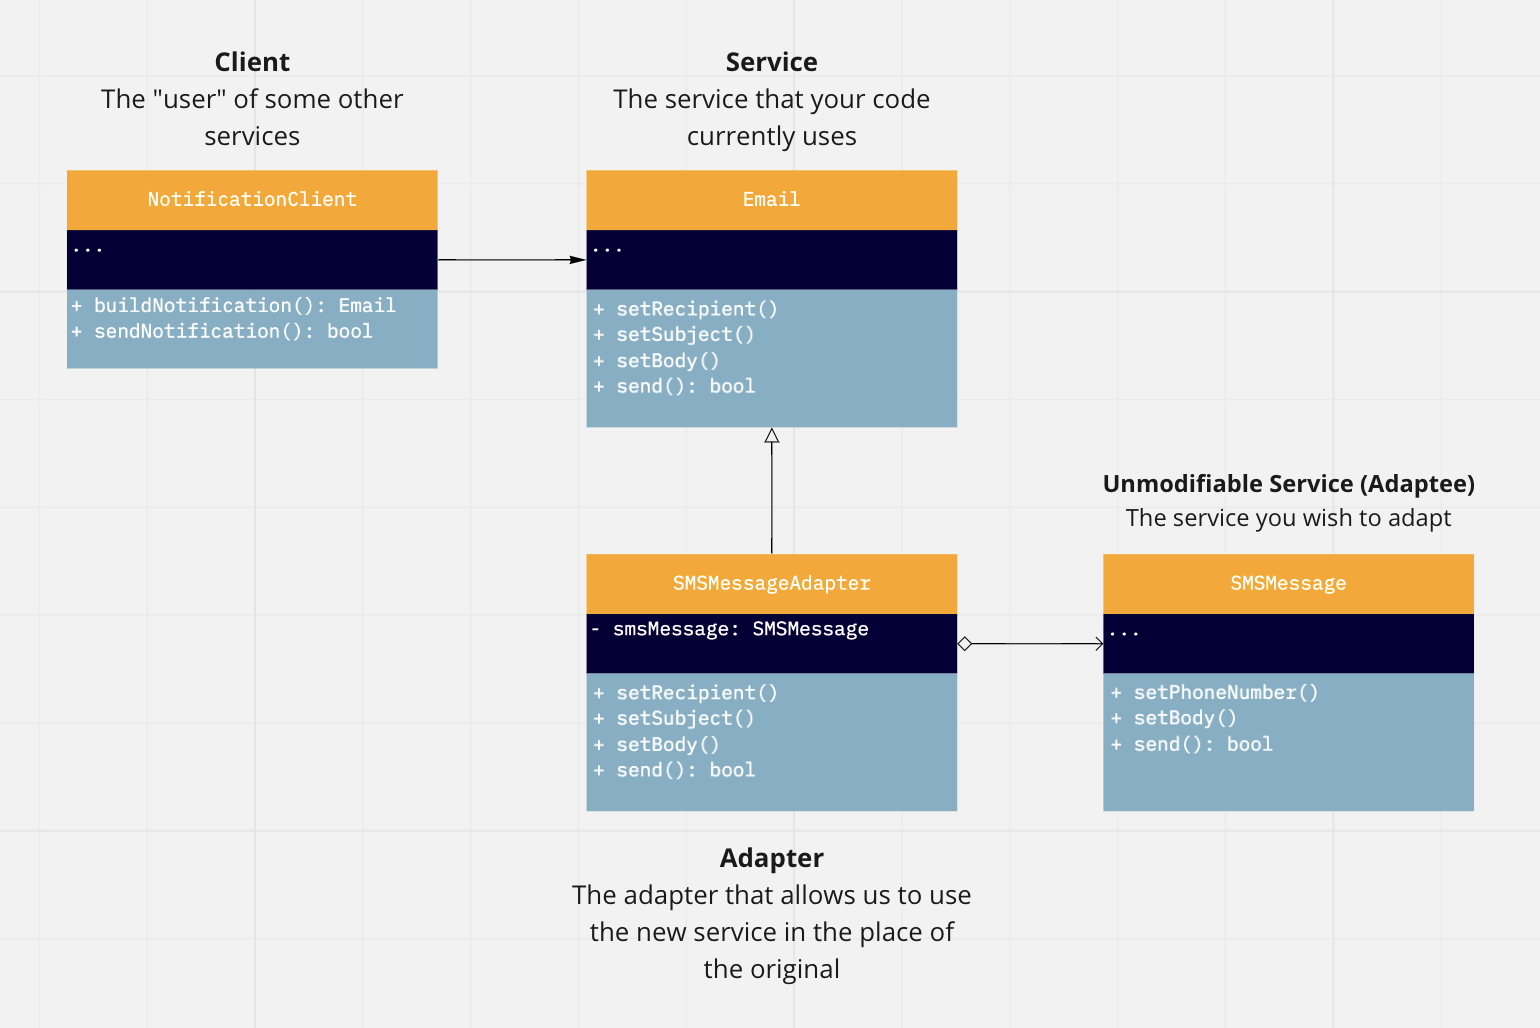
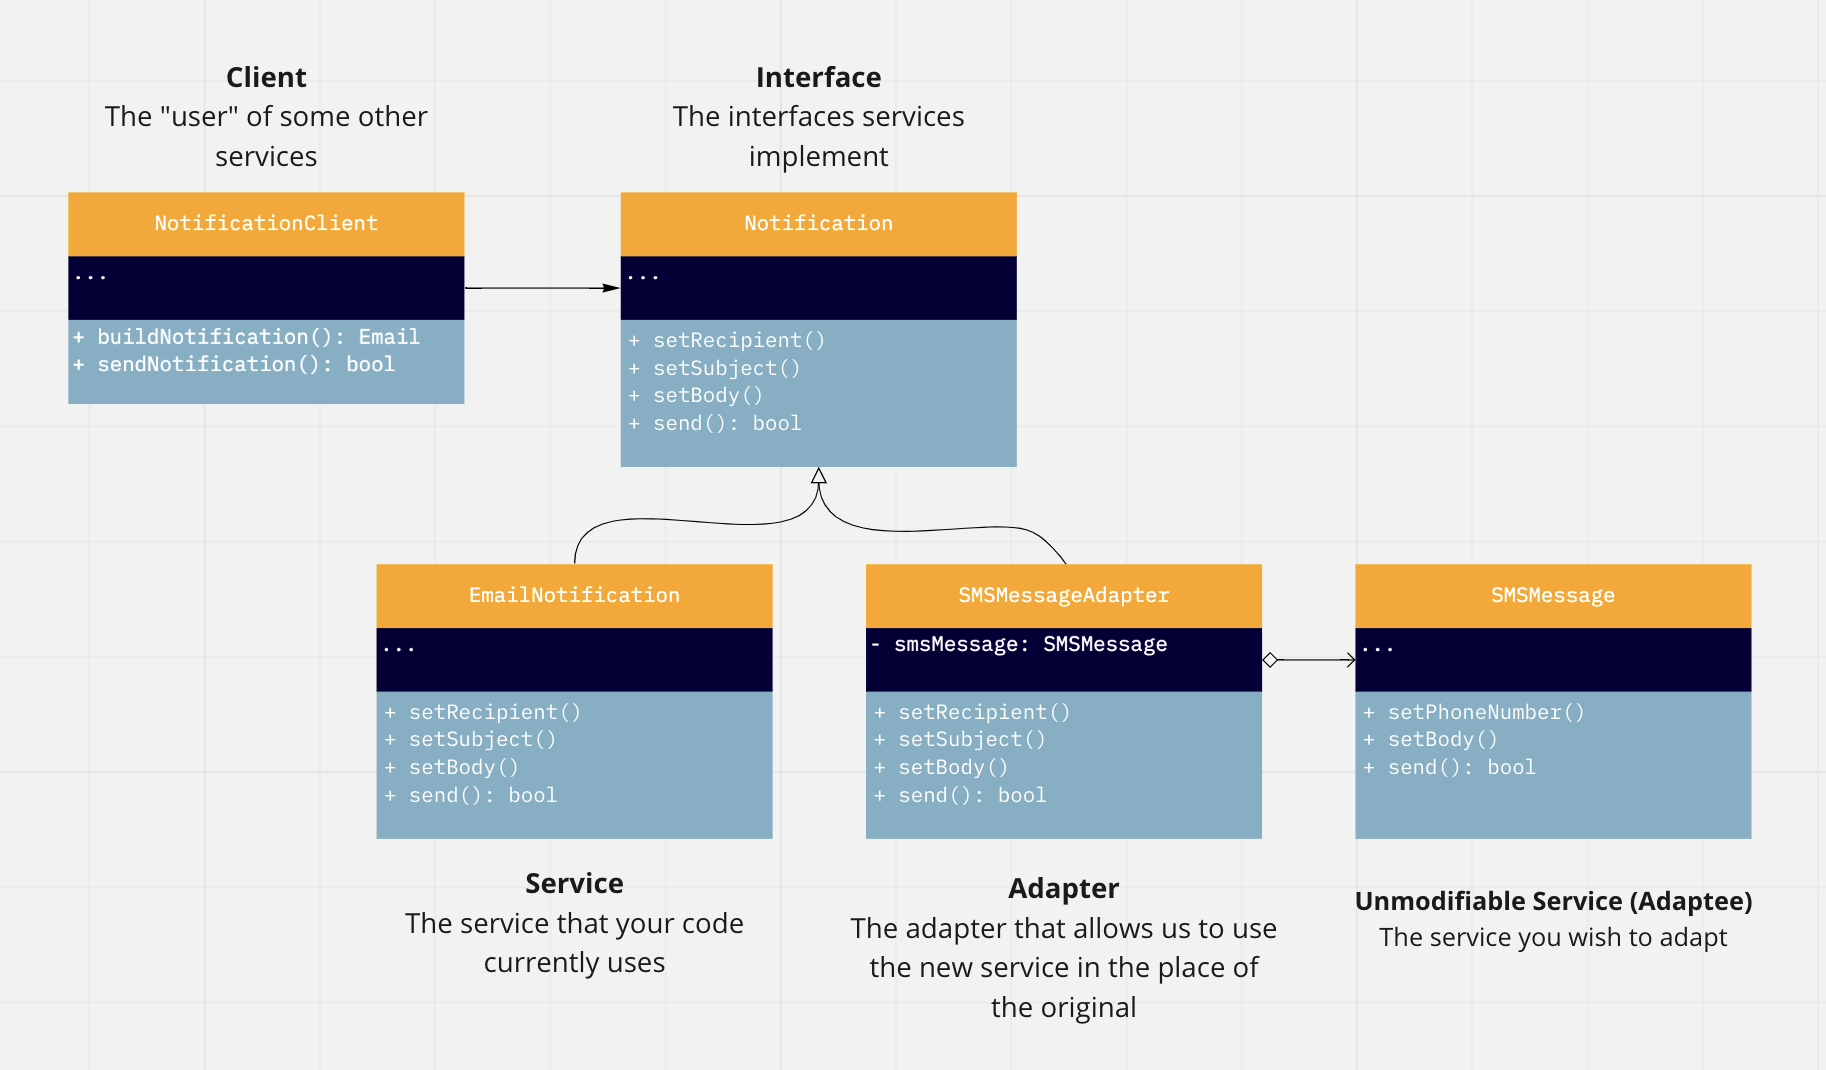
Update README and diagrams

Changed region(s): [[0.187, 0.4669, 0.9662, 0.965], [0.0312, 0.0311, 0.6234, 0.4669]]

diff --git a/README.md b/README.md
@@ -4,7 +4,7 @@ The Adapter pattern is a structural design pattern that allows objects with inco
 
 It allows you to create a middle-layer "adapter" class that acts as a translator between your code and a class with an incompatible interface.
 
-Use the Adapter class when you want to use an existing, unmodifiable class, but its interface isn’t compatible with the rest of your code.
+Use the Adapter class when you want to use an existing, unmodifiable class, but its interface isn’t compatible with the rest of your code. It's often useful when working with 3rd-party libraries.
 
 ### Pros:
 - Single Responsibility Principle - You can separate the interface or data conversion code from the primary business logic of the program.
